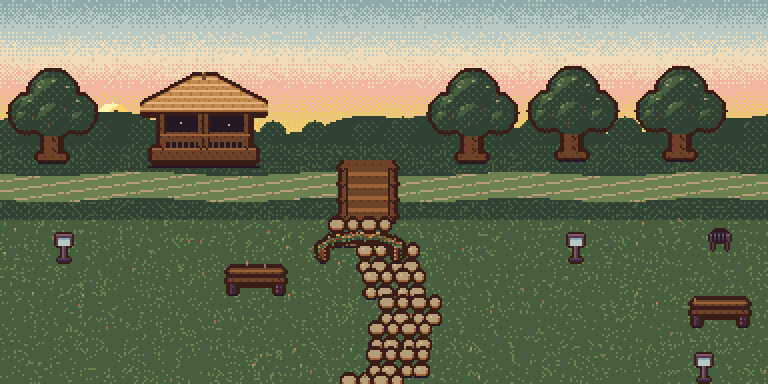
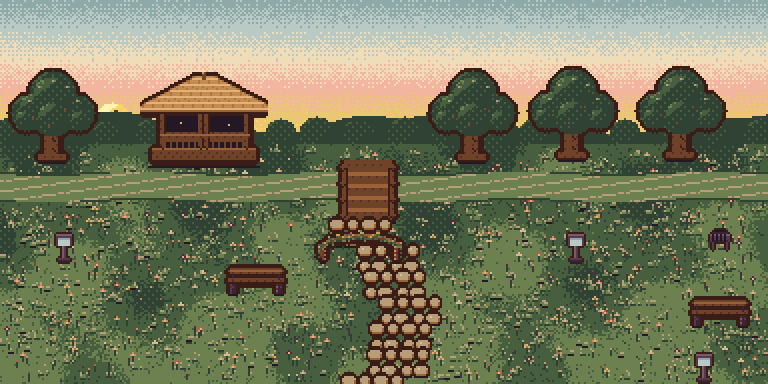
B13: wspolna polana w ogrodzie i parku, album koncowy, przekazanie G11-G14, zamkniecie przebudowy
Claude-Session: https://claude.ai/code/session_0135h6bTXzjAgeLjpLoaFjGV

diff --git a/tools/art/world/farm_bg.py b/tools/art/world/farm_bg.py
@@ -11,6 +11,7 @@ from garden import blob
 from garden_bg import SKY, _break
 import farm_a
 import farm_b
+from meadow import meadow
 
 W, HT, HORIZON = 256, 144, 54
 
@@ -47,42 +48,6 @@ MID = [("lawn", c, r) for r in range(ROWS) for c in range(COLS) if (c, r) not in
        ("tree", 6, 1), ("tree", 8, 1), ("tree", 10, 1), ("tree", 6, 3), ("tree", 8, 3), ("tree", 10, 3)]
 
 
-def meadow(im, r):
-    """Polana: plamy tonow trawy (niska czestotliwosc), kepy z dlugimi zdzblami, kwiatki, koniczyna, paprocie i kamyki."""
-    for y in range(HORIZON + 2, HT):
-        for x in range(W):
-            v = math.sin(x / 17.0 + y / 23.0) + math.sin(x / 9.0 - y / 13.0 + 2) * .6 + math.sin(y / 7.0 + x / 31.0) * .4
-            v += (y - HORIZON) / 60.0 - .6 + r.uniform(-.35, .35)
-            c = "moss.1" if v < -.75 else ("moss.2" if v < .8 else "moss.3")
-            if r.random() < .06: c = "moss.0" if c == "moss.1" else ("moss.1" if c == "moss.2" else "moss.2")
-            H.put(im, x, y, c)
-    for _ in range(190):                                           # kepy trawy: 3-5 zdzbel o roznej dlugosci
-        x, y = r.randint(2, W - 3), r.randint(HORIZON + 6, HT - 2)
-        for dx, ln in ((-2, r.randint(2, 3)), (0, r.randint(3, 6)), (2, r.randint(2, 4)), (r.choice((-1, 1)), r.randint(2, 4))):
-            for k in range(ln): H.put(im, x + dx + (k // 3) * (1 if dx >= 0 else -1), y - k, "moss.0" if k == 0 else ("moss.3" if k < ln - 1 else "moss.4"))
-    for _ in range(26):                                            # koniczyna i listki lezace w trawie
-        x, y = r.randint(2, W - 4), r.randint(HORIZON + 6, HT - 3)
-        for dx, dy in ((0, 0), (2, 0), (1, 1), (1, -1)): H.put(im, x + dx, y + dy, "moss.4" if (dx + dy) % 2 else "moss.3")
-        H.put(im, x + 1, y, "moss.0")
-    for _ in range(9):                                             # wieksze rosliny: paprocie / krzaczki
-        x, y = r.randint(6, W - 8), r.randint(HORIZON + 10, HT - 3)
-        for k, (dx, dy) in enumerate(((0, 0), (-3, 1), (3, 1), (-2, -2), (2, -2), (0, -3), (-4, 3), (4, 3))):
-            H.put(im, x + dx, y + dy, "moss.0" if k < 1 else "moss.4"); H.put(im, x + dx // 2, y + dy // 2, "moss.3")
-    pal = ("rose.1", "rose.2", "hay.3", "linen.3", "linen.2", "berry.0", "hay.2")
-    for _ in range(95):                                            # pojedyncze kwiatki na lodygach
-        x, y = r.randint(2, W - 3), r.randint(HORIZON + 8, HT - 4)
-        c = r.choice(pal); big = r.random() < .3
-        H.vline(im, x, y, y + 2, "moss.0")
-        if r.random() < .5: H.put(im, x + 1, y + 1, "moss.4")
-        H.put(im, x, y - 1, c)
-        if big:
-            for dx, dy in ((-1, -1), (1, -1), (0, -2)): H.put(im, x + dx, y + dy, c)
-            H.put(im, x, y - 1, "hay.3" if c != "hay.3" else "hay.1")
-    for _ in range(14):                                            # kamyki
-        x, y = r.randint(3, W - 5), r.randint(HORIZON + 10, HT - 3)
-        H.hline(im, x, x + 2, y, "dusk.3"); H.hline(im, x + 1, x + 2, y - 1, "dusk.4"); H.hline(im, x, x + 2, y + 1, "plum.1")
-
-
 def world(plots=()):
     r = random.Random(51)
     im = H.canvas(W, HT)
@@ -90,7 +55,7 @@ def world(plots=()):
         H.vline(im, x, int(HORIZON - 8 - 4 * math.sin(x / 23.0) - 2 * math.sin(x / 8.0)), HORIZON, "dusk.1")
     for x in range(W):
         H.vline(im, x, int(HORIZON - 1 - 2 * math.sin(x / 11.0 + 1)), HORIZON + 2, "moss.0")
-    meadow(im, r)
+    meadow(im, r, W, HT, HORIZON)
     H.break_checkers(im)
     meta = json.loads((H.WORLD_DIR / "farm/farm.json").read_text(encoding="utf-8"))["frames"]
     sheet = _img("farm/farm.png")

diff --git a/tools/art/world/meadow.py b/tools/art/world/meadow.py
@@ -1,0 +1,43 @@
+"""Wspolna polana (farma, ogrod, park): plamy tonow trawy, kepy ze zdzblami, kwiatki, koniczyna, paprocie, kamyki."""
+import math
+import sys
+from pathlib import Path
+sys.path.insert(0, str(Path(__file__).resolve().parents[1]))
+import handart as H
+
+
+def meadow(im, r, W, HT, HORIZON):
+    """Polana: plamy tonow trawy (niska czestotliwosc), kepy z dlugimi zdzblami, kwiatki, koniczyna, paprocie i kamyki."""
+    k = W * (HT - HORIZON) / (256 * 90.0)                            # gestosc roslin proporcjonalna do powierzchni
+    for y in range(HORIZON + 2, HT):
+        for x in range(W):
+            v = math.sin(x / 17.0 + y / 23.0) + math.sin(x / 9.0 - y / 13.0 + 2) * .6 + math.sin(y / 7.0 + x / 31.0) * .4
+            v += (y - HORIZON) / 60.0 - .6 + r.uniform(-.35, .35)
+            c = "moss.1" if v < -.75 else ("moss.2" if v < .8 else "moss.3")
+            if r.random() < .06: c = "moss.0" if c == "moss.1" else ("moss.1" if c == "moss.2" else "moss.2")
+            H.put(im, x, y, c)
+    for _ in range(int(190 * k)):                                           # kepy trawy: 3-5 zdzbel o roznej dlugosci
+        x, y = r.randint(2, W - 3), r.randint(HORIZON + 6, HT - 2)
+        for dx, ln in ((-2, r.randint(2, 3)), (0, r.randint(3, 6)), (2, r.randint(2, 4)), (r.choice((-1, 1)), r.randint(2, 4))):
+            for k in range(ln): H.put(im, x + dx + (k // 3) * (1 if dx >= 0 else -1), y - k, "moss.0" if k == 0 else ("moss.3" if k < ln - 1 else "moss.4"))
+    for _ in range(int(26 * k)):                                            # koniczyna i listki lezace w trawie
+        x, y = r.randint(2, W - 4), r.randint(HORIZON + 6, HT - 3)
+        for dx, dy in ((0, 0), (2, 0), (1, 1), (1, -1)): H.put(im, x + dx, y + dy, "moss.4" if (dx + dy) % 2 else "moss.3")
+        H.put(im, x + 1, y, "moss.0")
+    for _ in range(int(9 * k)):                                             # wieksze rosliny: paprocie / krzaczki
+        x, y = r.randint(6, W - 8), r.randint(HORIZON + 10, HT - 3)
+        for k, (dx, dy) in enumerate(((0, 0), (-3, 1), (3, 1), (-2, -2), (2, -2), (0, -3), (-4, 3), (4, 3))):
+            H.put(im, x + dx, y + dy, "moss.0" if k < 1 else "moss.4"); H.put(im, x + dx // 2, y + dy // 2, "moss.3")
+    pal = ("rose.1", "rose.2", "hay.3", "linen.3", "linen.2", "berry.0", "hay.2")
+    for _ in range(int(95 * k)):                                            # pojedyncze kwiatki na lodygach
+        x, y = r.randint(2, W - 3), r.randint(HORIZON + 8, HT - 4)
+        c = r.choice(pal); big = r.random() < .3
+        H.vline(im, x, y, y + 2, "moss.0")
+        if r.random() < .5: H.put(im, x + 1, y + 1, "moss.4")
+        H.put(im, x, y - 1, c)
+        if big:
+            for dx, dy in ((-1, -1), (1, -1), (0, -2)): H.put(im, x + dx, y + dy, c)
+            H.put(im, x, y - 1, "hay.3" if c != "hay.3" else "hay.1")
+    for _ in range(int(14 * k)):                                            # kamyki
+        x, y = r.randint(3, W - 5), r.randint(HORIZON + 10, HT - 3)
+        H.hline(im, x, x + 2, y, "dusk.3"); H.hline(im, x + 1, x + 2, y - 1, "dusk.4"); H.hline(im, x, x + 2, y + 1, "plum.1")

diff --git a/tools/art/world/park_bg.py b/tools/art/world/park_bg.py
@@ -10,6 +10,7 @@ import light
 from PIL import Image
 from garden import blob, MOSS
 from garden_bg import SKY, _break
+from meadow import meadow
 
 W, HT, HORIZON = 384, 192, 70
 STREAM = (HORIZON + 16, HORIZON + 30)                                       # gorny i dolny brzeg wody
@@ -57,7 +58,7 @@ def sky(tod):
 
 
 def world(extra=()):
-    r = random.Random(41)
+    r = random.Random(43)
     im = H.canvas(W, HT)
     for x in range(W):                                                          # dalekie wzgorza
         top = int(HORIZON - 8 - 5 * math.sin(x / 27.0) - 2 * math.sin(x / 9.0 + 1))
@@ -67,11 +68,7 @@ def world(extra=()):
         H.vline(im, x, top, HORIZON + 2, "moss.0")
     for cx in range(6, W, 22):                                                  # linia drzew na horyzoncie
         blob(im, cx + r.randint(-3, 3), HORIZON - 3, 7 + r.randint(0, 2), ("moss.0", "moss.1", "moss.1", "moss.2"), r)
-    for y in range(HORIZON + 2, HT):
-        for x in range(W):
-            c = "moss.1" if y < HORIZON + 40 else "moss.2"
-            if r.random() < .09: c = "moss.2" if c == "moss.1" else "moss.3"
-            H.put(im, x, y, c)
+    meadow(im, r, W, HT, HORIZON)
     H.break_checkers(im)
     for y in range(STREAM[0], STREAM[1] + 1):                                  # strumien
         for x in range(W):
@@ -92,9 +89,6 @@ def world(extra=()):
         for dx in (-8, 8): im.alpha_composite(pc, (x + dx - 8 + (k % 2) * 4, y))
     put("flower_arch", 156, STREAM[1] + 16)
     put("bench_park", 112, HORIZON + 62); put("bench_park", 344, HORIZON + 78)
-    for _ in range(48):                                                         # drobne kwiaty
-        x, y = r.randint(0, W - 1), r.randint(STREAM[1] + 8, HT - 3)
-        H.put(im, x, y, r.choice(["rose.1", "hay.2", "linen.2"])); H.put(im, x, y + 1, "moss.3")
     for rel, x, y in extra:
         put(Path(rel).stem, x, y, rel)
     return im

diff --git a/tools/art/world/garden_bg.py b/tools/art/world/garden_bg.py
@@ -10,6 +10,7 @@ import light
 from PIL import Image
 from garden import blob, MOSS, tree_small
 import home
+from meadow import meadow
 
 W, HT, HORIZON = 256, 144, 58
 SKY = {
@@ -77,11 +78,7 @@ def world(tod):
     for x in range(W):
         top = int(HORIZON - 1 - 2 * math.sin(x / 12.0 + 2))
         H.vline(im, x, top, HORIZON + 2, "moss.0")
-    for y in range(HORIZON + 2, HT):                                              # trawa
-        for x in range(W):
-            c = "moss.1" if y < HORIZON + 30 else "moss.2"
-            if r.random() < .09: c = "moss.2" if c == "moss.1" else "moss.3"
-            H.put(im, x, y, c)
+    meadow(im, r, W, HT, HORIZON)                                                 # trawa
     H.break_checkers(im)
     for x in range(0, W, 8):                                                      # plot
         H.rrect(im, x + 1, HORIZON - 2, x + 4, HORIZON + 12, 1, ("wood.0", "wood.1", "wood.2", "wood.2"))
@@ -104,10 +101,6 @@ def world(tod):
                        ("flowerbed_tulip", 8, HORIZON + 50), ("flowerbed_daisy", 200, HORIZON + 62),
                        ("bench_wood", 150, HORIZON + 40), ("bird_bath", 60, HORIZON + 58)):
         put(name, x, y, Image.open(H.WORLD_DIR / f"garden/{name}.png").convert("RGBA"))
-    for _ in range(36):                                                           # drobne kwiaty
-        x, y = r.randint(0, W - 1), r.randint(HORIZON + 24, HT - 3)
-        if im.getpixel((x, y))[:3] in H.RAMPS["moss"] or True:
-            H.put(im, x, y, r.choice(["rose.1", "hay.2", "linen.2"])); H.put(im, x, y + 1, "moss.3")
     return im
 
 

diff --git a/docs/PLAN_PRZEBUDOWY.md b/docs/PLAN_PRZEBUDOWY.md
@@ -1,6 +1,6 @@
 # Plan przebudowy paczki grafiki wg legendy „domek z siana" (3.11.2026)
 
-Status: **PLAN, do wykonania falami B0-B13, jedno małe zadanie po drugim.** Nic z tego jeszcze nie zrobiono. Podstawa: `docs/STYL_SWIATA.md` (legenda, decyzje 1-7 przyjęte 3.11.2026), `assets/data/style_palette.json` (42 kolory), `assets/data/lights.json` (światło), `docs/DESIGNER_BRIEF.md` (nowe elementy z pokoi świnek W23-W30). Ten plan zastępuje fale S0-S8 z `docs/PLAN_STYLU_SWIATA.md` i łączy je z paczkami P0-P10 oraz briefem H0-H3.
+Status: **ZREALIZOWANY (B0-B14 gotowe 3.11.2026; zostaje wdrożenie w kodzie G11-G14 i usunięcie `_x2` po potwierdzeniu).** Podstawa: `docs/STYL_SWIATA.md` (legenda, decyzje 1-7 przyjęte 3.11.2026), `assets/data/style_palette.json` (42 kolory), `assets/data/lights.json` (światło), `docs/DESIGNER_BRIEF.md` (nowe elementy z pokoi świnek W23-W30). Ten plan zastępuje fale S0-S8 z `docs/PLAN_STYLU_SWIATA.md` i łączy je z paczkami P0-P10 oraz briefem H0-H3.
 
 ## 1. Zakres (sprawdzone na plikach 3.11.2026)
 
@@ -174,11 +174,11 @@ Powód: po przeglądzie użytkownika (3.11.2026) w scenach nadal są przedmioty 
 ### B13. Domknięcie (5 zadań)
 | ID | Zadanie |
 |---|---|
-| B13-1 | Lint całej paczki (0 naruszeń), kontrola zgodności z `world_items.json`, `farm.json`, `pigs_named.json`, `decor.json`, `icons.json` |
-| B13-2 | Budżet: usunięcie starych `_x2` świata i przeniesienie skalowania do adnotacji kontraktu (po potwierdzeniu w sekcji Przekazanie), `assets/` ≤ 60 MB, zgodność z `check_sprites.py` i `node tools/qa/{anim-test,palette-test,web-smoke}.js` |
-| B13-3 | Album końcowy: każde miejsce x 4 pory dnia x 3 oświetlenia (`docs/album/przebudowa/`) i porównanie przed/po |
-| B13-4 | Aktualizacja `docs/KONTRAKT_ASSETOW.md`, `docs/INWENTARZ_GRAFIKI.md`, `docs/VISUAL_LOG.md`, `docs/STYL_SWIATA.md` (status „zrealizowano", lista elementów) |
-| B13-5 | **Przekazanie dla kodu** (dopisane do `docs/PLAN.md` jako zadania G11-G14): renderer światła z `lights.json` (przełączniki, pory dnia, automatyczne zapalanie lamp), oświetlenie świnek, skalowanie x2 w grze, wczytanie nowych id; po wdrożeniu: P10 (przegląd w grze 1x/1.5x/2x) |
+| B13-1 | (zrobione: lint 161 plików 0; 55/55 id z `world_items.json` w atlasie + 32 nowe; ikony 173) Lint całej paczki (0 naruszeń), kontrola zgodności z `world_items.json`, `farm.json`, `pigs_named.json`, `decor.json`, `icons.json` |
+| B13-2 | (częściowo: `assets/` 52 MB < 60; `_x2` świata zostają do G14, bo kod może ich używać; `node tools/qa/*` nie uruchomione, brak przeglądarki Playwright w środowisku) Budżet: usunięcie starych `_x2` świata i przeniesienie skalowania do adnotacji kontraktu (po potwierdzeniu w sekcji Przekazanie), `assets/` ≤ 60 MB, zgodność z `check_sprites.py` i `node tools/qa/{anim-test,palette-test,web-smoke}.js` |
+| B13-3 | (zrobione: `b13-3_album_koncowy.png`) Album końcowy: każde miejsce x 4 pory dnia x 3 oświetlenia (`docs/album/przebudowa/`) i porównanie przed/po |
+| B13-4 | (zrobione) Aktualizacja `docs/KONTRAKT_ASSETOW.md`, `docs/INWENTARZ_GRAFIKI.md`, `docs/VISUAL_LOG.md`, `docs/STYL_SWIATA.md` (status „zrealizowano", lista elementów) |
+| B13-5 | (zrobione: sekcja w `docs/PLAN.md`) **Przekazanie dla kodu** (dopisane do `docs/PLAN.md` jako zadania G11-G14): renderer światła z `lights.json` (przełączniki, pory dnia, automatyczne zapalanie lamp), oświetlenie świnek, skalowanie x2 w grze, wczytanie nowych id; po wdrożeniu: P10 (przegląd w grze 1x/1.5x/2x) |
 
 ## 4. Liczby
 

diff --git a/docs/PLAN.md b/docs/PLAN.md
@@ -273,6 +273,15 @@ Gracz sam decyduje, ile ma pól uprawnych i ile drzewek w sadzie. Na początku d
 - nowe id: `plot_lawn`, `plot_orchard` (atlas, `place: farm`), `bg:orchard` (podgląd sadu 256x144).
 Akceptacja: nowy zapis startuje z samymi działkami `lawn`; test w `FarmEngine`/`FarmExpansion`: przeróbka lawn→bed i lawn→tree, rozbiórka, limit działek, nawodnienie tylko grządek, zgodność zapisu.
 
+### Przekazanie z przebudowy grafiki (B13-5; zadania G11-G14 dla kodu)
+Grafika świata jest gotowa (legenda „domek z siana", lint 0 na 161 plikach). Kod musi jeszcze:
+| ID | Zadanie | Pliki | Akceptacja |
+|---|---|---|---|
+| G11 | Wczytanie nowych id: dom `gramophone, mug_steam, rug_fringed, blanket_folded, mirror_wavy, frames_gallery, plant_pot, plant_shelf, plant_trailing, memory_frame, dorm_nest, lace_curtain, pouf_boucle, house_frame`; ogród `gate_garden, watering_can, hay_basket, stump_seat`; farma `barn_hay, plot_lawn, plot_orchard`, `bg:orchard`; targ `poster_1..3`; ikony 161-173; `bg:menu`; `assets/ui/*` + `ui.json` (9-slice); `assets/props/*`; `assets/app-icon/*`. Usunięte: `plot_field`. Zmiana rozmiaru: `bridge_wood` 64x32 → 32x32 | `app.js`, `features/*`, `Graphics/*` | `check-assets.js` (G10) zielony |
+| G12 | Renderer światła z `assets/data/lights.json`: pory dnia (rano, dzień, wieczór, noc), przełączniki, automatyczne zapalanie lamp (`*_on`) wieczorem i nocą; ogień tylko w ogrodzie i parku | `web/*`, `Graphics/*` | zrzuty 4 pór zgodne z `docs/album/przebudowa/b13-3_album_koncowy.png` |
+| G13 | Oświetlenie świnek (`docs/SWIATLO_SWINEK.md`, bez kwantyzacji), cienie `fx/shadow_pig_{baby,junior,adult}` pod świnką | `web/*`, `Graphics/*` | świnka czytelna w każdej porze |
+| G14 | Skalowanie x2 w grze (nearest) zamiast plików `_x2` świata; po wdrożeniu **człowiek potwierdza usunięcie `assets/world/**/*_x2.png` (102 pliki)**, Claude je kasuje; potem P10 (przegląd w grze 1x/1.5x/2x) | `web/*`, `Graphics/*` | brak odwołań do `_x2` w kodzie |
+
 ## Mapa starych zadań
 F2-02→PR #32 (W1-01,W1-02,W2-01 stare) + W1-09,W1-10,W2-01 · F2-07→zrobione · F3-01→W1-03,W1-04,W2-02,W3-01,W7-06 · F3-03→W4-01..W4-04,W7-07,W7-08 · F4-01→W4-07,W5-01,W5-02 · F4-02→W4-06,W6-01,W6-02 ·
 F4-03→W1-05,W2-03,W3-03 · F4-04→W3-04,W3-05,W4-05 · F4-05→W1-06,W2-06,W2-08,W5-04 · F4-06→W1-07,W2-04,W5-03,W6-02,W6-03 · F4-07→W3-08,W4-08 · F4-08→W2-09,W3-07 ·

diff --git a/docs/KONTRAKT_ASSETOW.md b/docs/KONTRAKT_ASSETOW.md
@@ -19,6 +19,9 @@ Format jest ostateczny. Kod tylko wczytuje i rysuje; jeśli pliku brak, rysuje g
 
 Generatory: `tools/art/*` (numpy + Pillow). Regeneracja: `python3 tools/art/export_all.py assets`, `export_named.py assets`, `icons_world.py assets`, `farm_art.py assets`, `items_art.py assets`, `tiles_art.py assets`, `portraits.py assets`.
 
+## Skalowanie x2 (adnotacja B13-2)
+Nowe pliki świata i interfejsu są tylko w x1 (indeksowana paleta). Kod skaluje całkowicie (2x, nearest, `image-rendering: pixelated`). Stare pliki `*_x2.png` w `assets/world/` zostają do wdrożenia G14; wtedy człowiek potwierdza ich usunięcie, a pole `file_x2` w `atlas.json` przestaje obowiązywać.
+
 ## Interfejs (B11)
 - `assets/ui/ui.json`: `items[id] = {file, size, slice:[lewy,gorny,prawy,dolny]}`; 9-slice: rogi i brzegi o grubosci `slice` nie sa rozciagane, srodek rozciagamy najblizszym sasiadem (bez wygladzania). Id: `panel_paper`, `panel_wood`, `btn_normal`, `btn_hover`, `btn_pressed`, `sep_h`, `sep_v` (powtarzac po dluzszej osi), `header_banner` (srodek powtarzac, nie rozciagac, szew z siana), `shop_panel` (markiza gora 18 px).
 - `bg:menu` (`tiles.json`, 256x144): cieply wieczor ze swiatlem, tlo menu i ekranu startowego; napisy i przyciski kod kladzie na nim.

diff --git a/docs/STYL_SWIATA.md b/docs/STYL_SWIATA.md
@@ -1,6 +1,6 @@
 # Legenda stylu Cuya: „domek z siana" (wersja robocza 1, do zatwierdzenia)
 
-Status: **PROJEKT (wersja 2, po referencjach i systemie światła), czeka na zatwierdzenie właściciela.** Po zatwierdzeniu legenda jest zamrożona: zmienia ją tylko właściciel, a każda paczka (pkt 11) jest z nią sprawdzana linterem i przeglądem. Paleta: `assets/data/style_palette.json`, podgląd: `docs/album/stylbook/paleta.png`.
+Status: **ZREALIZOWANO (3.11.2026): paczka świata przebudowana wg legendy, lint 0 na 161 plikach; wdrożenie w kodzie: G11-G14 w `docs/PLAN.md`.** Po zatwierdzeniu legenda jest zamrożona: zmienia ją tylko właściciel, a każda paczka (pkt 11) jest z nią sprawdzana linterem i przeglądem. Paleta: `assets/data/style_palette.json`, podgląd: `docs/album/stylbook/paleta.png`.
 
 ## 0. Jedno zdanie
 **Ciepły, trochę lofi, vintage'owy domek świnki: popołudniowe światło lampy i świecy na drewnie, sianie i dzianinie. Miękko, przytulnie, trochę wyblakłe jak stara pocztówka.** Nic nie krzyczy, nic nie jest czysto czerwone, niebieskie ani zielone.

diff --git a/docs/VISUAL_LOG.md b/docs/VISUAL_LOG.md
@@ -166,3 +166,8 @@ sofa_cosy (bochenek, brick, 4 warianty), fireplace (wył + 4 klatki wł), lamp_m
 
 ## Polana farmy (3.11.2026)
 - `bg/farm.png`, `bg/orchard.png`, `bg/menu.png`: jedna zróżnicowana polana (plamy tonów trawy, kępy z długimi źdźbłami, pojedyncze kwiatki na łodygach, koniczyna, paprocie, kamyki). `plot_lawn` i `plot_orchard` przezroczyste, widać polanę pod działkami. Lint 0 (161 plików).
+
+## B13 Domknięcie i wspólna polana (3.11.2026)
+- `tools/art/world/meadow.py`: polana wspólna dla farmy, ogrodu i parku (gęstość proporcjonalna do powierzchni); `garden_bg.py` i `park_bg.py` używają jej zamiast gładkiej trawy.
+- Lint 161 plików: 0. Zgodność: 55/55 id `world_items.json` w atlasie (87 przedmiotów, 32 nowe), ikony 173, kafle 53, tła 12. `assets/` 52 MB (limit 60). `_x2` świata (102 pliki) zostają do G14. `node tools/qa/*` nie działa w środowisku (brak przeglądarki Playwright).
+- Album końcowy: `docs/album/przebudowa/b13-3_album_koncowy.png`. Przekazanie dla kodu: `docs/PLAN.md` (G11-G14).
